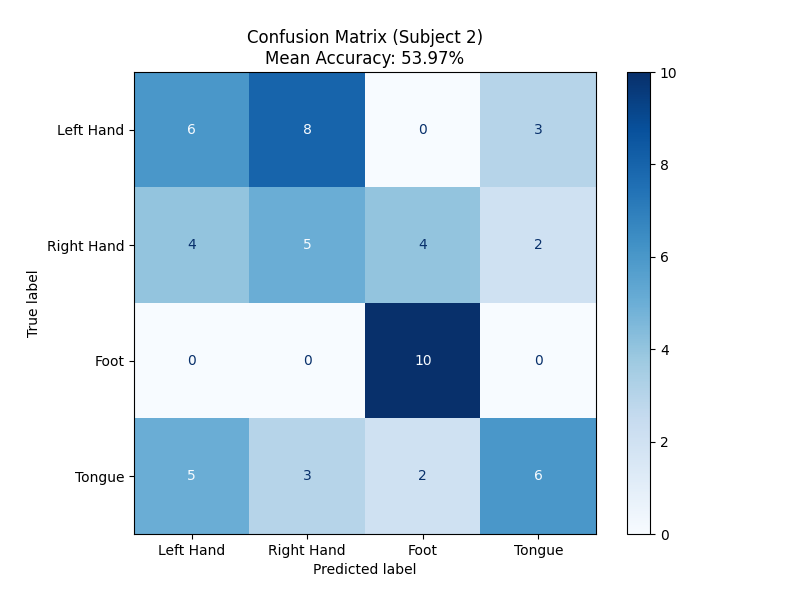
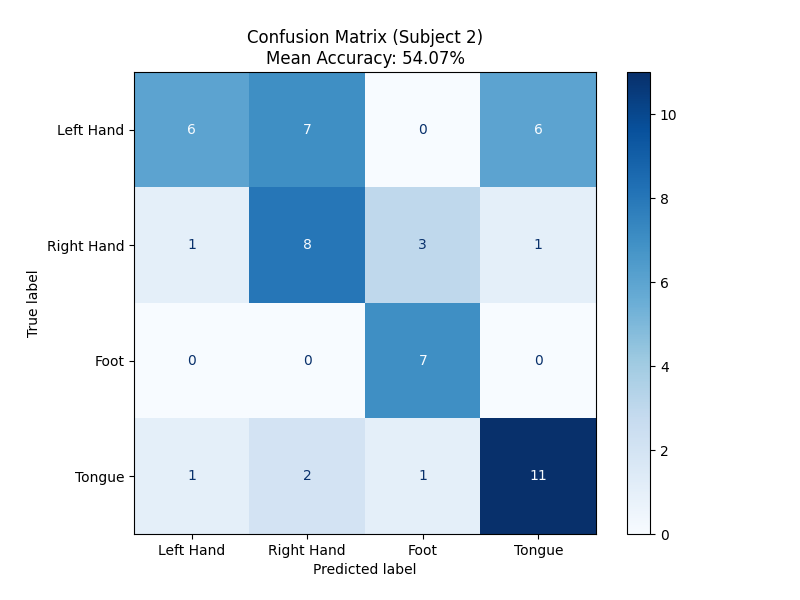
add artifact rejection for BCI IV 2a trials

diff --git a/src/preprocessing.py b/src/preprocessing.py
@@ -2,6 +2,7 @@ import mne
 import numpy as np
 from pathlib import Path
 from data_loader import DataLoader
+from artifact import get_artifact_trial_mask
 
 # Two preprocessing "profiles" are used in this project:
 # - CSP/LDA baseline: narrow band (8-30Hz), matches the mu/beta rhythms CSP relies on.
@@ -18,7 +19,8 @@ def preprocessing_subject(
         training: bool = True,
         l_freq: float = 8.0,
         h_freq: float = 30.0,
-        output_dir: str = "data/processed"
+        output_dir: str = "data/processed",
+        reject_artifacts: bool = True
         ):
     """
     Loads, filters, and epochs the data for a specific subject
@@ -30,6 +32,8 @@ def preprocessing_subject(
         h_freq = upper bandpass cutoff in Hz. Default 30.0 matches the CSP baseline
         output_dir = where to save the resulting .fif file. Use a different folder per processing profile
             (e.g. "data/processed" for CSP, "data/processed_dl for deep learning) so the two never overwrite each other
+        reject_artifacts: if True (default), drops trials flagged with the '1023' annotation before epoching. Kept as a toggle (not
+            hardcoded True), so the baseline can be re-run both ways for an explicit before/after comparison, per this feature's acceptance criteria
 
     Returns: epochs (mne.Epochs): the processed, epoched data
     """
@@ -73,6 +77,17 @@ def preprocessing_subject(
     # Finds timestamps where the arrows appeared on the screen.
     events, _ = mne.events_from_annotations(raw, event_id=annotation_map, verbose=False)
 
+    # Drop artifact-flagged trials before epoching, so mne.Epochs never sees them.
+    # events is already chronologically ordered by mne.events_from_annotations, and
+    # get_artifact_trial_mask() walks raw.annotations in the same chronological
+    # order over the same cue codes, so the mask lines up index-for-index with
+    # 'events' without any extra bookkeping
+    if reject_artifacts:
+         mask = get_artifact_trial_mask(raw)
+         n_rejected = int(mask.sum())
+         print(f"Rejecting {n_rejected}/{len(events)} trials flagged with artifacts")
+         events = events[~mask]
+
     # Map the dataset codes to clear names for our model
     event_id = {
         'Left Hand': 769,
@@ -106,38 +121,56 @@ def preprocessing_subject(
 
     return epochs
 
-def preprocess_for_baseline(subject_id: int, training: bool = True):
+def preprocess_for_baseline(
+        subject_id: int,
+        training: bool = True,
+        reject_artifacts: bool = True,
+        output_dir: str = "data/processed"
+        ):
     # CSP+LDA baseline profile: 8-30Hz, saved to data/processed/
+    #
+    # output_dir is overridable so a caller can run the SAME baseline profile into a
+    # throwaway folder (e.g. the with/without-rejection comparison in the smoke test
+    # below) without overwriting the real cache the rest of the pipeline reads from.
     return preprocessing_subject(
         subject_id,
         training=training,
         l_freq=8.0,
         h_freq=30.0,
-        output_dir="data/processed",
+        output_dir=output_dir,
+        reject_artifacts=reject_artifacts
     )
 
-def preprocess_for_deep_learning(subject_id: int, training: bool = True):
+def preprocess_for_deep_learning(subject_id: int, training: bool = True, reject_artifacts: bool = True):
     # EEGNet / deep learning profile: 4-40Hz, saved to data/processed_dl
-        return preprocessing_subject(
+    return preprocessing_subject(
         subject_id,
         training=training,
         l_freq=4.0,
         h_freq=40.0,
         output_dir="data/processed_dl",
+        reject_artifacts=reject_artifacts
     )
-    
+
+
 
 # test block
 if __name__ == "__main__":
     try:
-        # Smoke test: run both profiles for subject 1 and confirm they don't collide.
-        print("Baseline profile (8-30Hz -> data/processed)")
-        baseline_epochs = preprocess_for_baseline(1)
-        print(baseline_epochs)
+        print("Baseline profile with artifact rejecttion")
+        epochs_clean = preprocess_for_baseline(1)
+        print(epochs_clean)
 
-        print("\nDeep Learning profile (4-40Hz -> data/processed_dl)")
-        dl_epochs = preprocess_for_deep_learning(1)
-        print(dl_epochs)
+        print("Baseline profile without artifact rejecttion (for comparison)")
+        # Written to a throwaway folder on purpose: this is a diagnostic run, and
+        # data/processed/ must keep the artifact-rejected version that the CSP
+        # baseline (and results/baseline_results.csv) were built from.
+        epochs_raw = preprocess_for_baseline(
+            1,
+            reject_artifacts=False,
+            output_dir="data/processed_smoketest"
+        )
+        print(epochs_raw)
         
     except Exception as e:
         print(f"Error: {e}")

diff --git a/src/artifact.py b/src/artifact.py
@@ -1,0 +1,63 @@
+"""
+Artifact-trial detection for the BCI IV 2a dataset.
+
+REVISED APPROACH: the original version used a time-window heuristic (bisect over
+onset timestamps) to associate '1023' with nearby cues, but it produced zero matches
+across all subjects when tested. A bug in that time-arithmetic logic, not a
+parameter tuning issue.
+
+Diagnostic output (inspect_artifact_context.py) revealed the actual structure
+directly: '1023' always occurs at the SAME onset timestamp as a '768' (trial start)
+marker, and the trial's cue (769-772) always follows next in the sequence, ~2s later.
+So instead of comparing timestamps, we do a straightforward sequential scan: '768'
+resets a "current trial rejected" flag to False, '1023' sets it to True, and whenever
+a cue code is hit, we record the current flag value and move to the next trial.
+This encodes the exact pattern observed, with no timing arithmetic to get wrong.
+"""
+
+import numpy as np
+
+
+def get_artifact_trial_mask(
+    raw,
+    cue_codes=('769', '770', '771', '772'),
+    reject_code='1023',
+    trial_start_code='768',
+):
+    """
+    Returns a boolean array, one entry per motor imagery cue in chronological order
+    (same order mne.Epochs produces from the same raw + cue_codes), True where that
+    trial is marked as containing an artifact.
+    """
+    onsets = raw.annotations.onset
+    descriptions = list(raw.annotations.description)
+    pairs = sorted(zip(onsets, descriptions), key=lambda p: p[0])
+
+    mask = []
+    current_trial_rejected = False
+
+    for _, desc in pairs:
+        if desc == trial_start_code:
+            current_trial_rejected = False
+        elif desc == reject_code:
+            current_trial_rejected = True
+        elif desc in cue_codes:
+            mask.append(current_trial_rejected)
+            # No need to reset here, the next '768' always resets before the
+            # next cue is reached.
+
+    return np.array(mask, dtype=bool)
+
+
+# test block
+if __name__ == "__main__":
+    from data_loader import DataLoader
+
+    expected_counts = {1: 15, 2: 18, 3: 18, 4: 26, 5: 26, 6: 69, 7: 17, 8: 24, 9: 51}
+
+    loader = DataLoader()
+    for subject_id, expected in expected_counts.items():
+        raw, _ = loader.load_session(subject_id, training=True)
+        mask = get_artifact_trial_mask(raw)
+        status = "OK" if mask.sum() == expected else "MISMATCH"
+        print(f"Subject {subject_id}: {mask.sum()} flagged (expected {expected}) [{status}]")

diff --git a/src/eeg_dataset.py b/src/eeg_dataset.py
@@ -66,6 +66,7 @@ class MotorImageryDataset(Dataset):
     def __init__(self, subject_id: int, training: bool = True):
         from pathlib import Path
         import mne
+        from artifact import get_artifact_trial_mask
 
         fif_path = Path("data/processed_dl") / f"subject_{subject_id}_epo.fif"
         if not fif_path.exists():
@@ -91,12 +92,22 @@ class MotorImageryDataset(Dataset):
         self.y = torch.tensor([LABEL_REMAP[code] for code in event_codes], dtype=torch.long)
 
         # Needed so a training script can build run-based folds directly from
-        # this Dataset without re-deriving run_ids separately. Requires the
-        # original raw session (not the cached epochs), see split.py's note
-        # on this dependency
+        # this Dataset. run_ids is computed from the original raw session, so it
+        # must have the same artifact-rejection mask applied that was used when
+        # this subject's .fif was generated. Otherwise run_ids (288 entries)
+        # won't match self.y (fewer, post-rejection entries)
         loader = GDFLoader()
         raw, _ = loader.load_session(subject_id, training=training)
-        self.run_ids = get_motor_imagery_run_ids(raw)
+
+        run_ids_all_trials = get_motor_imagery_run_ids(raw)
+        artifact_mask = get_artifact_trial_mask(raw)
+        self.run_ids = run_ids_all_trials[~artifact_mask]
+
+        assert len(self.run_ids) == len(self.y), (
+            f"run_ids ({len(self.run_ids)}) and labels ({len(self.y)}) length "
+            f"mismatch -- check that this .fif was generated with the same "
+            f"artifact-rejection setting this Dataset assumes."
+        )
 
     def __len__(self):
         return len(self.y)
@@ -110,7 +121,9 @@ if __name__ == "__main__":
     dataset = MotorImageryDataset(subject_id=1)
 
     print(f"Dataset size: {len(dataset)} trials")
-    print(f"X shape: {dataset.X.shape}  (expected: [288, 1, 22, ~1126])")
+    # 273, not 288: subject 1 has 15 trials flagged with the '1023' artifact
+    # annotation, and preprocess_for_deep_learning drops them by default.
+    print(f"X shape: {dataset.X.shape}  (expected: [273, 1, 22, ~1126])")
     print(f"y shape: {dataset.y.shape}, unique labels: {dataset.y.unique().tolist()}")
     print(f"run_ids: {len(dataset.run_ids)} values, unique runs: {sorted(set(dataset.run_ids.tolist()))}")
 
